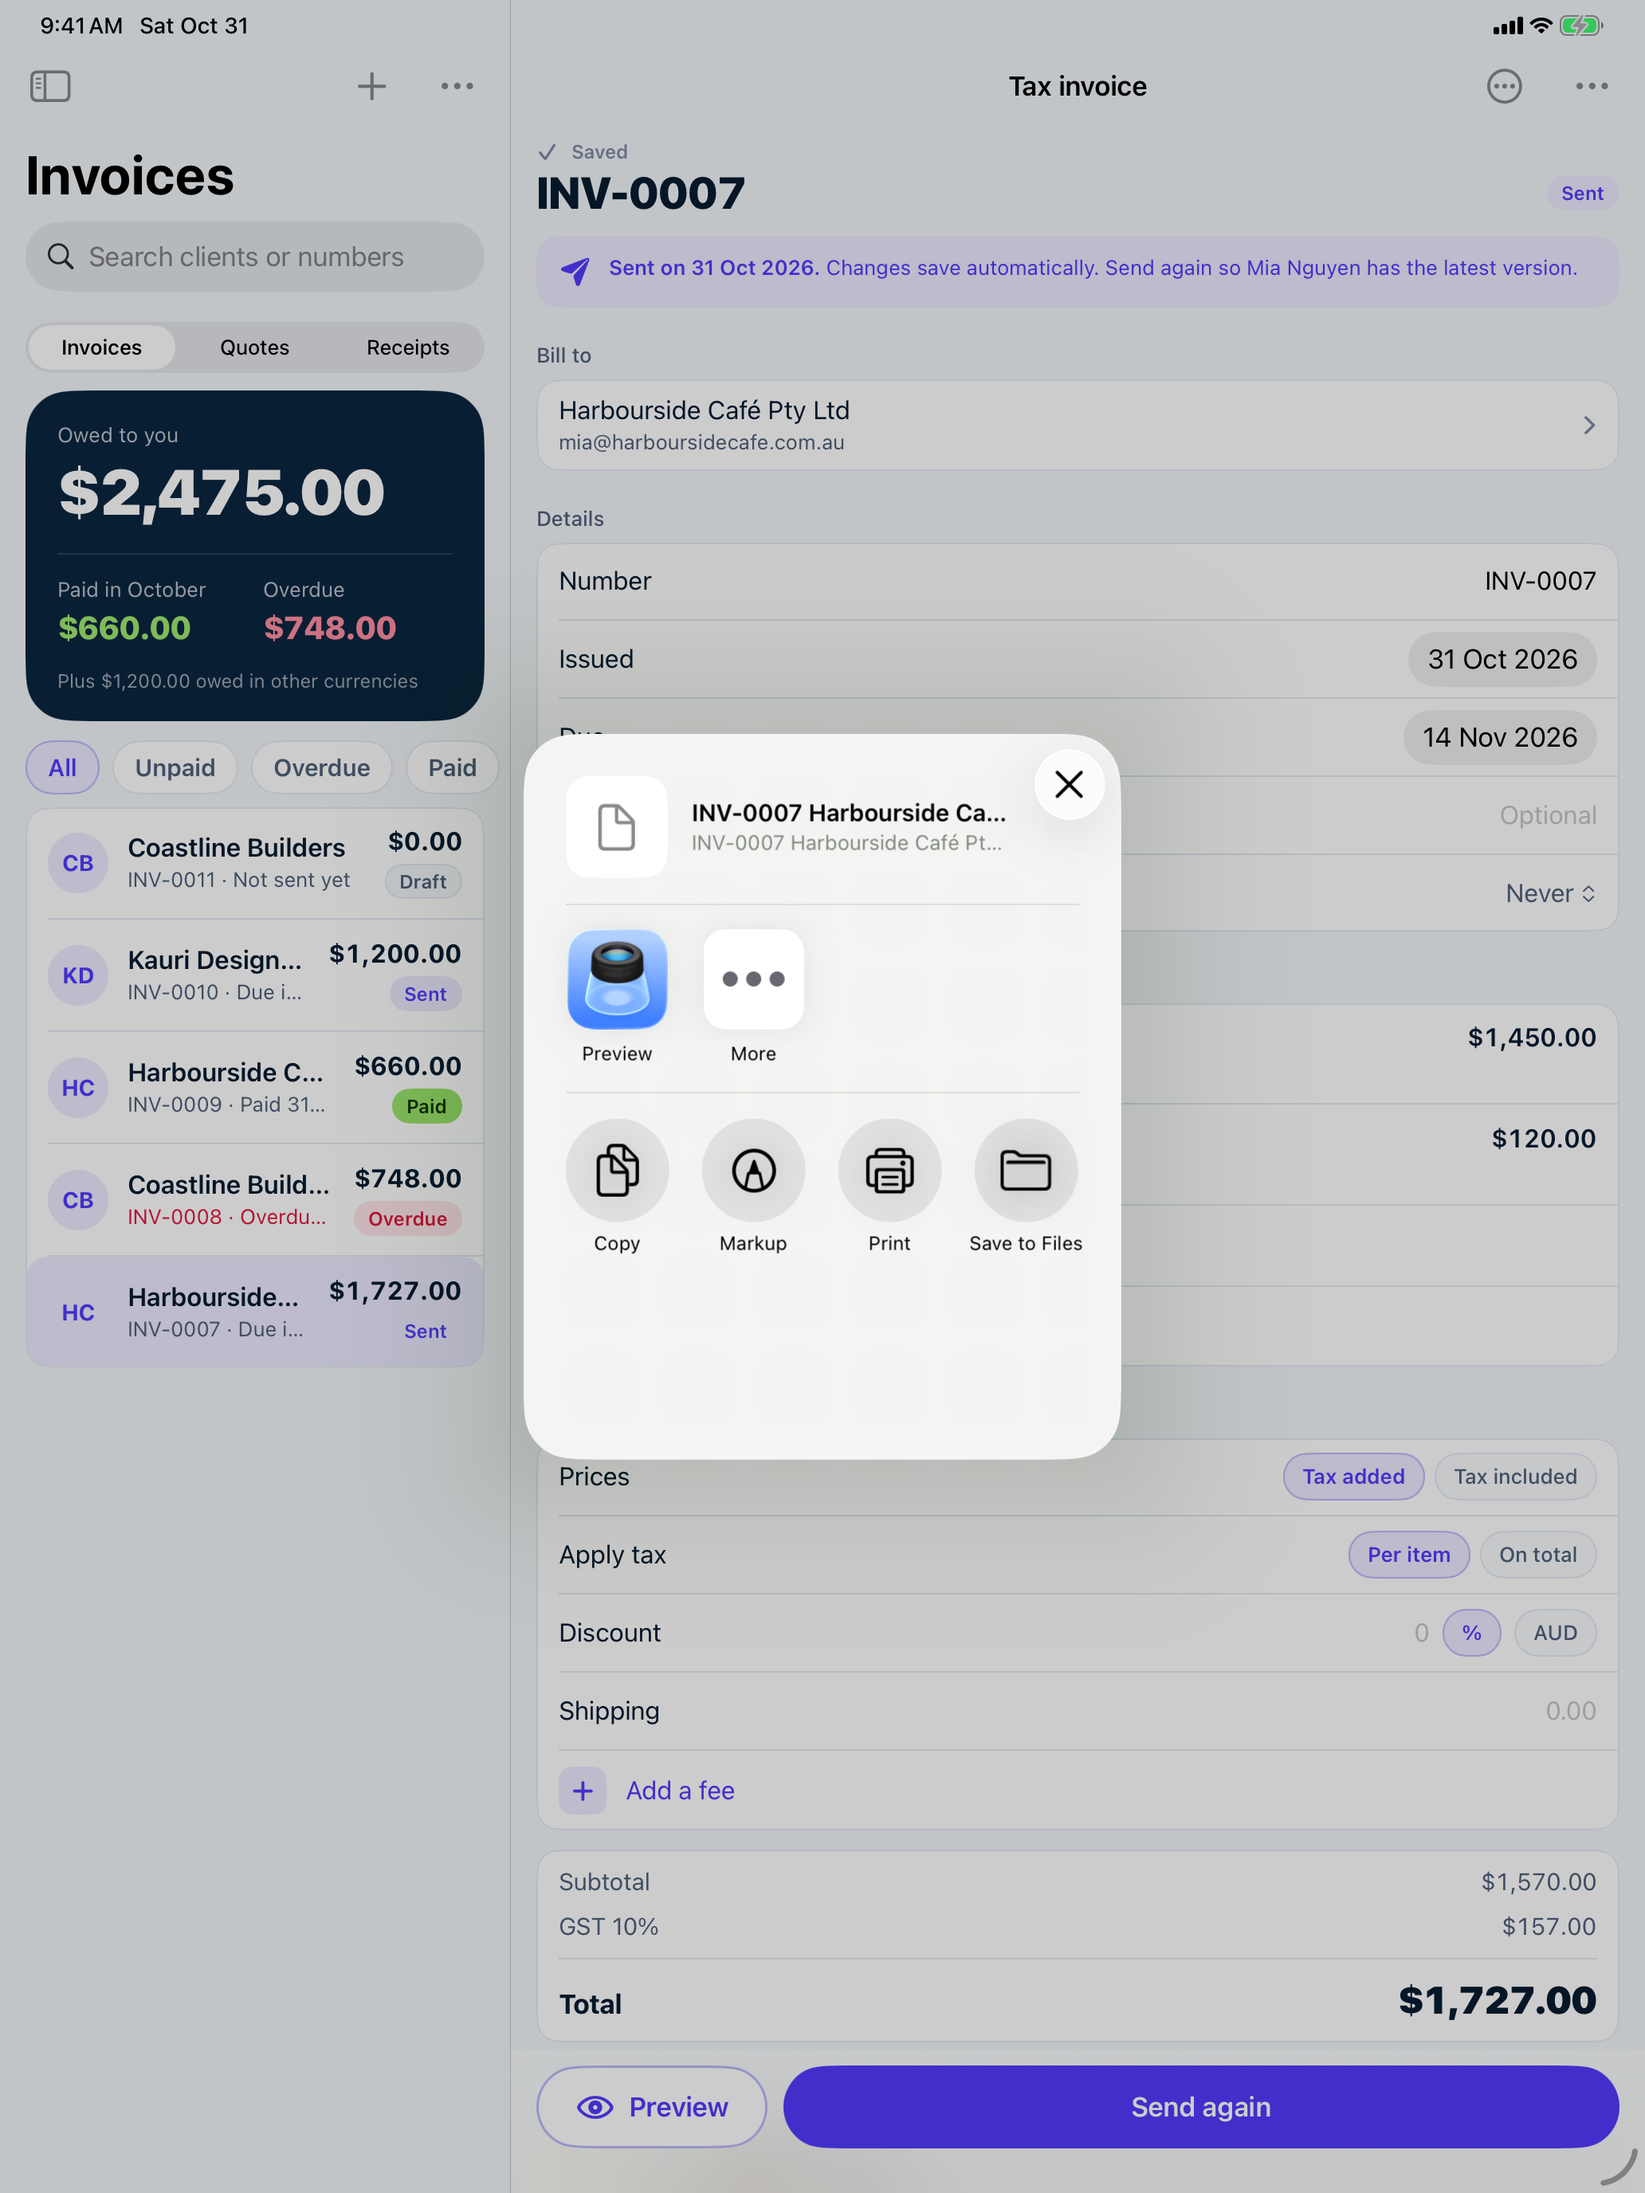
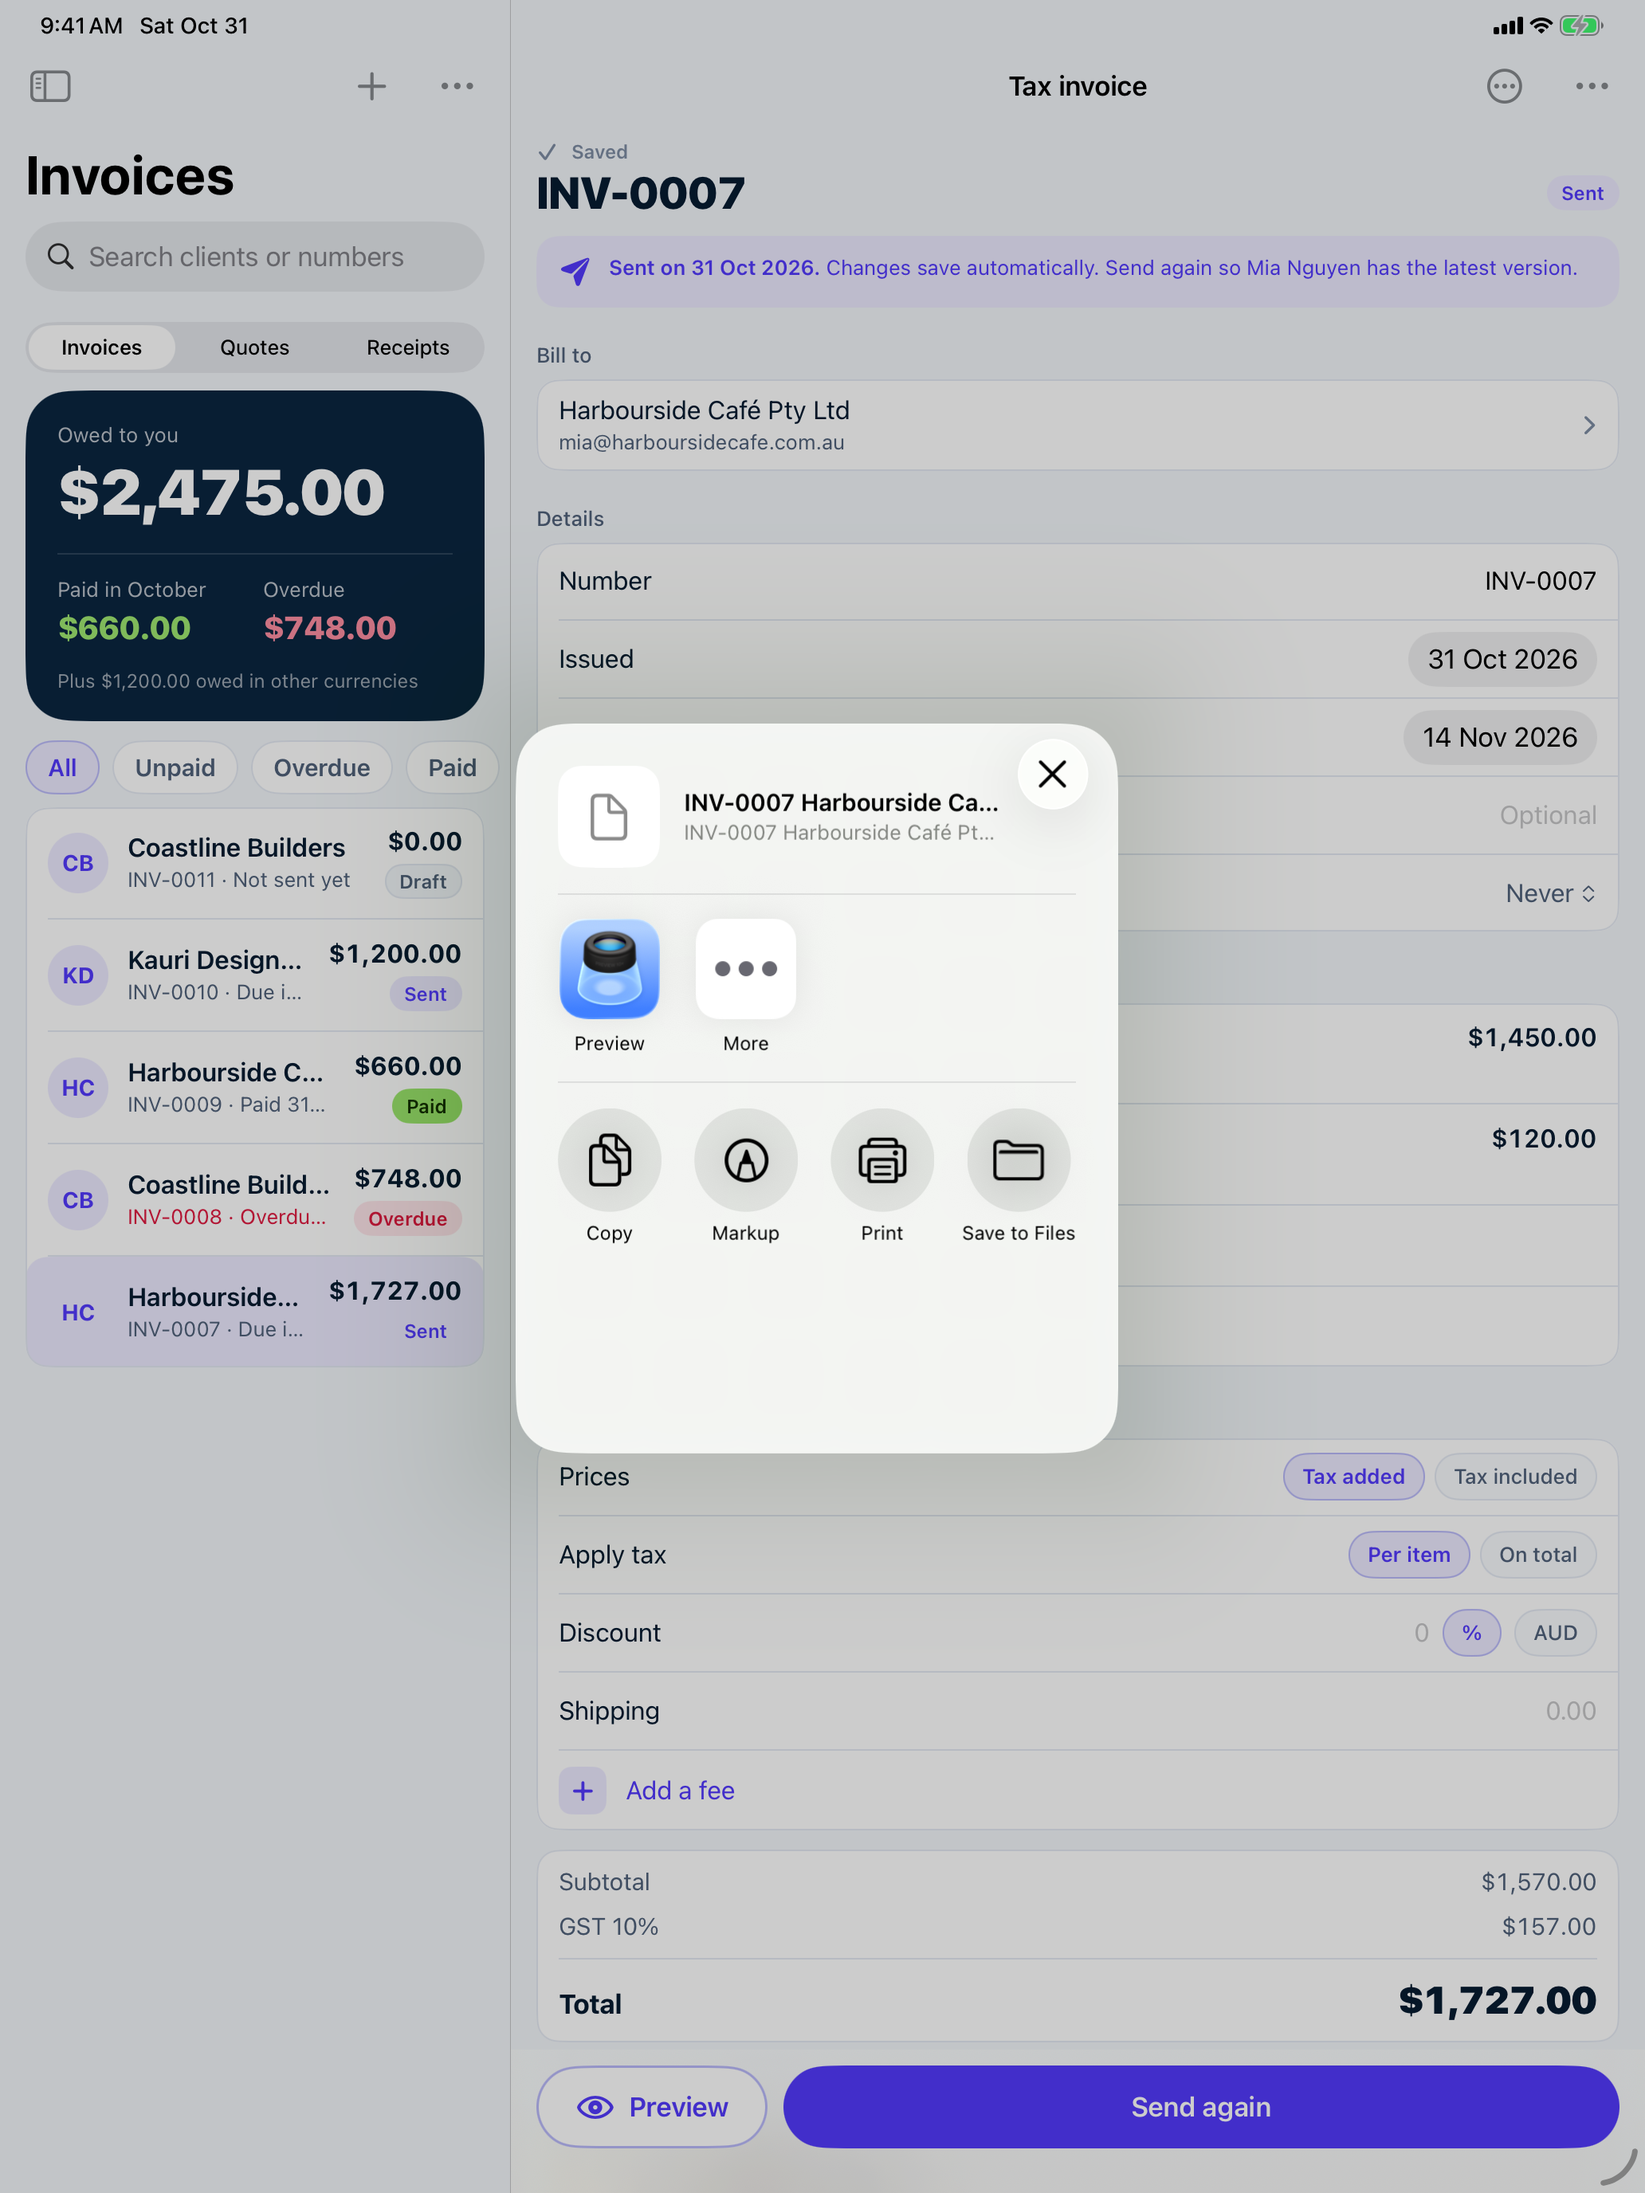
Screens (AU iPad Pro 13-inch (M5)) for 1ac0d6668d84b4ab7c954f6d98aa7b9c3a984f37

diff --git a/README.md b/README.md
@@ -1,1 +1,1 @@
-App Store screens from 67b179513c3968838ec884f530136c76ac6cde7d
+App Store screens from 1ac0d6668d84b4ab7c954f6d98aa7b9c3a984f37
